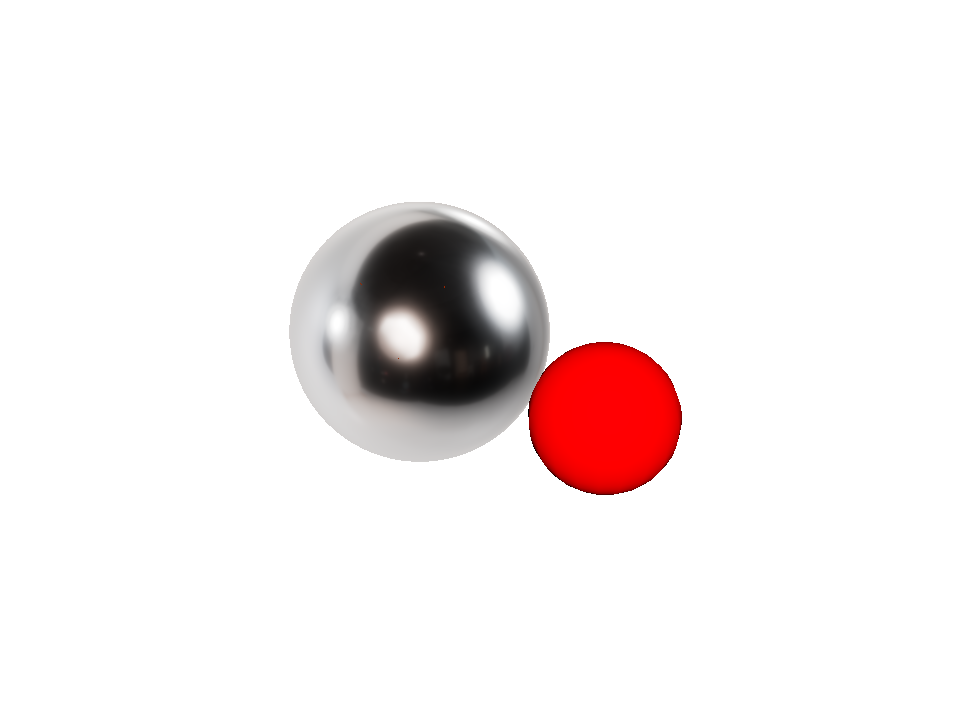
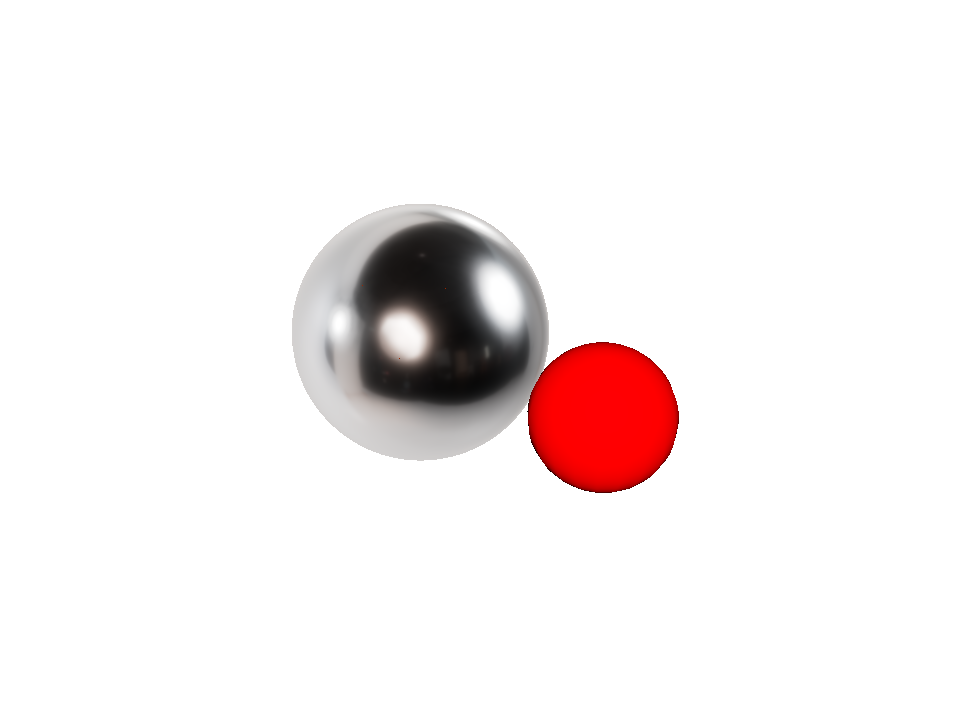
S2's Maya gate met: the IBL check on the restarted GUI worker, master's shell pixel-identical to the regenerated shell in one session; the new pictures are the baseline
Three jobs on the resident GUI Maya after the owner restarted the orchestrator: the IBL check with the
regenerated shell (RESULT: OK, pictures written), a second run of it (identical to the first), and
master's shell through the job's fx parameter in the same session (identical to the regenerated shell's
pictures, max 1 grey level on two debug views). The committed September pictures differed on 5 to 8
percent of pixels; that was the session, not the shell. Plan task 6 ticked with the evidence; the spec's
amendment; board, docs map, handoff, journal (with the BATS line).

diff --git a/Docs/superpowers/plans/s2-material-generators.md b/Docs/superpowers/plans/s2-material-generators.md
@@ -1,7 +1,8 @@
 # S2 plan: the generators
 
 **Status:** Accepted. Built 2026-10-01 on `feat/s2-material-generators` (one PR) after #34 approved the spec;
-six of seven tasks verified, task 6 (the GUI Maya run) stated as not met in the PR, see the table.
+all seven tasks verified; task 6 (the GUI Maya run) was met after the merge, once the owner restarted the
+orchestrator (the follow-up PR), see the table.
 
 Spec: [../specs/s2-material-generators.md](../specs/s2-material-generators.md). Test-first: each task's
 test lands with it.
@@ -29,7 +30,7 @@ test lands with it.
 - [x] 5. `tools/generate_material_ui.py` with `--check` and `--write`, the CI step after the shader
       build. Verify: `--check` clean; a hand edit inside the markers makes it exit 1 with a diff (shown
       in the PR); the CI run green.
-- [ ] 6. The Maya run: `tools/maya/ibl_check.py` with the regenerated shell on the `hogshade_maya_gui`
+- [x] 6. The Maya run: `tools/maya/ibl_check.py` with the regenerated shell on the `hogshade_maya_gui`
       worker (BATS if the orchestrator runs, else a human launch), pictures compared to the previous
       check. Verify: the compile log clean, the pictures identical, the attribute editor's groups as
       before; stated in the PR with the artifact path.
@@ -46,7 +47,7 @@ test lands with it.
 | 3 | The shell: environment section moved above, a hand-written "display and model" section (`shadingModel`, `linearSpaceLighting`, `gammaCorrectionValue`), the markers, the four macros gone (`test_shell_has_no_ui_macros_left`), `shadowMultiplier` an explicit declaration in its Shadows group; four attributes change UI group (the three parallax sliders the slider macro had put in Material Properties, and `shadowMultiplier`), settled as intentional in the spec's amendments; `generate()` equals the block byte for byte; every host-map identifier is declared and read by the body; the S1 union test now parses declarations and still passes; `tools/build_shaders.py --check --require-compilers` clean; `fxc /T fx_5_0` compiles the regenerated effect (909 965 bytes) and master's (909 849) with the same warnings |
 | 4 | `Docs/reference/material-types.md` equals `generate("docs")`; every parameter of every type listed; `check_docs.py` clean (68 files) |
 | 5 | `tools/generate_material_ui.py --check` clean; a hand edit inside the markers (0.5 to 0.55 on `materialRoughness`) exits 1 with the diff; the CI step after the shader build |
-| 6 | **Not met as specified.** The IBL check job on the resident `hogshade_maya_gui` worker crashed the worker during the shader load (job `1785f4a7`, 22:22:46; the check log stops after "log is incremental", the worker state CRASHED, no restart). The orchestrator's worker is not mine to restart and a Maya beside it is forbidden, so the evidence came from the headless `hogshade_maya` worker instead: one job loaded master's shell and the regenerated shell in the same session; both report the `Main` technique, the same 1021 user attributes and the same defaults and nice names on every attribute. A parse failure would have shown there. The viewport pictures still need a GUI run after the worker is restarted (owner) |
+| 6 | **Met on 2026-10-01 after the merge of #35**, once the owner restarted the orchestrator with a fresh GUI worker: the IBL check job completed (`RESULT: OK`, `Main` technique, shader load 28.6 s) and wrote the pictures under `verification/maya-2026/ibl-check/studio_small_09/` (committed in the follow-up PR as the new baseline). The pictures differ from the 2026-09-27 baseline on 5 to 8 percent of pixels (silhouettes and highlights, mean a quarter of a grey level), so a third job rendered **master's shell in the same session**: its pictures and the regenerated shell's are pixel-identical (max 0 on `main.png`, max 1 on two debug views), and two runs of one shell in one session are identical too. The difference from September is between Maya sessions, not between shells. Before the restart: The IBL check job on the resident `hogshade_maya_gui` worker crashed the worker during the shader load (job `1785f4a7`, 22:22:46; the check log stops after "log is incremental", the worker state CRASHED, no restart). The orchestrator's worker is not mine to restart and a Maya beside it is forbidden, so the evidence came from the headless `hogshade_maya` worker instead: one job loaded master's shell and the regenerated shell in the same session; both report the `Main` technique, the same 1021 user attributes and the same defaults and nice names on every attribute. A parse failure would have shown there. The viewport pictures still need a GUI run after the worker is restarted (owner) |
 | 7 | This table; the spec's amendments; board, docs map, glossary, handoff, journal; `check_docs.py` clean |
 
 Totals: `uv run pytest tests/material` 180 passed; the full suite 335 passed on the owner's GPU.

diff --git a/Docs/handoffs/CURRENT.md b/Docs/handoffs/CURRENT.md
@@ -1,7 +1,7 @@
 # Handoff: where HogShade is right now
 
 **Status:** Living. Rewritten whenever work is interrupted, a decision changes, or a PR lands.
-**Last updated:** 2026-10-01, late: S2 built (`feat/s2-material-generators`, [#35](https://github.com/HogJonny-AMZN/HogShade/pull/35) open) after #34 approved the spec; before that, `hog_color`'s history settled by the owner, the old toolbox identifiers retired and track A closed (`chore/history-put-to-bed`, #32, from the LargeWorlds session), on top of #31 merged (S1, the material schema files and `hogshade.material`). Before that: #27 to #30 (the standards remainder, the schema design, the glossary, the S1 spec); #26 and `v0.2.0`.
+**Last updated:** 2026-10-01, night: #35 (S2) merged, its Maya gate met after the owner restarted the orchestrator, the follow-up PR open; before that #34; before that, `hog_color`'s history settled by the owner, the old toolbox identifiers retired and track A closed (`chore/history-put-to-bed`, #32, from the LargeWorlds session), on top of #31 merged (S1, the material schema files and `hogshade.material`). Before that: #27 to #30 (the standards remainder, the schema design, the glossary, the S1 spec); #26 and `v0.2.0`.
 
 A new session reads this, then `Docs/plan/BOARD.md` (gates first), then
 `Docs/design/2026-09-26-decision-log-and-working-knowledge.md`, then the newest file in `Docs/journal/`, then `Docs/ROADMAP.md`, then the plan in flight
@@ -9,6 +9,15 @@ A new session reads this, then `Docs/plan/BOARD.md` (gates first), then
 how much to decide alone.
 
 ## In flight
+
+**Sit rep, 2026-10-01 night.** S2 is merged (#35) and its one open gate is closed: the owner restarted the
+orchestrator (the kill switch, then `tools/bats/run_hogshade_orchestrator.bat`), the IBL check completed on
+the fresh GUI worker, and a job that rendered master's shell in the same session produced pixel-identical
+pictures to the regenerated shell's. The new pictures are the committed baseline (the September one differs
+by session state, 5 to 8 percent of pixels on silhouettes and highlights, which two in-session runs of one
+shell do not show). The follow-up PR carries that baseline, Copilot's two post-merge findings on #35 (the
+label rule's `<`, a board row), and S2 struck. Next: S3, the wgpu binding (spec first), or the standards PR;
+the owner picks. Icebox: a job sets and clears its own environment on the resident worker.
 
 **Sit rep, 2026-10-01 late.** S2 is built and #35 is open: `hogshade.material.generate("maya_dx11")`
 writes the shell's material block between markers from the legacy types' schema files and the host map

diff --git a/Docs/plan/BOARD.md b/Docs/plan/BOARD.md
@@ -41,7 +41,7 @@ A gate is not a task. It is a question that blocks tasks, and the cost of guessi
 
 | Item | Cost | Notes |
 | --- | --- | --- |
-| ~~**S2 · the generators, the build**~~ | — | ✅ **Merged 2026-10-01 as [#35](https://github.com/HogJonny-AMZN/HogShade/pull/35).** The Maya block generated between markers from the schema and the host map, the macros retired, `--check` in CI, the docs reference; 180 tests. The GUI picture run is still owed: the resident GUI Maya worker crashed on the first job; owner restarting it (2026-10-01), then `submit.py --gui --module hogshade.jobs.maya_ibl_check`; Copilot's two post-merge findings fixed in the follow-up |
+| ~~**S2 · the generators, the build**~~ | — | ✅ **Merged 2026-10-01 as [#35](https://github.com/HogJonny-AMZN/HogShade/pull/35).** The Maya block generated between markers from the schema and the host map, the macros retired, `--check` in CI, the docs reference; 180 tests. The GUI picture run landed after the merge (the owner restarted the orchestrator): master's shell and the regenerated shell render pixel-identical in one session; the new pictures are the baseline, in the follow-up PR with Copilot's two post-merge findings |
 | ~~**S2 · the generators, spec and plan**~~ | — | ✅ **Merged 2026-10-01 as [#34](https://github.com/HogJonny-AMZN/HogShade/pull/34)** (Copilot's four findings fixed) |
 | ~~**S1, the second review's fixes**~~ | — | ✅ **Merged 2026-09-28 as [#33](https://github.com/HogJonny-AMZN/HogShade/pull/33).** `when` on several sources and the condition-set rules, `validate()` never raises, `convert()` refuses an invalid material; every review metric at 7 or above. The re-review of #31 had scored error handling 6 and found the cutout mapping ignored `has_alpha`; the third review ran before the PR opened and added the condition-set rules; 158 tests |
 | ~~**S1 · the material schema files and `hogshade.material`**~~ | — | ✅ **Merged 2026-09-28 as [#31](https://github.com/HogJonny-AMZN/HogShade/pull/31).** Four `*.material-type.json` (the standard with OpenPBR names, legacy v2 and v1 typed from the structs and the shell with a test tying them, lambert), three conversion tables under the coverage rule, `load`, `validate`, `resolve`, `convert`; 133 tests; the wheel carries the data; mayapy imports it. Amendments in the spec's last section. Merge when read |

diff --git a/Docs/README.md b/Docs/README.md
@@ -98,7 +98,7 @@ spec's acceptance gate passed and the roadmap, the README and any affected desig
 | 5. wgpu host | not yet | not yet | Design done |
 | 6. Other hosts | not yet | not yet | Design done |
 | S1. The material schema files and `hogshade.material` (load, validate, resolve, convert) | [superpowers/specs/s1-material-schema.md](superpowers/specs/s1-material-schema.md) | [superpowers/plans/s1-material-schema.md](superpowers/plans/s1-material-schema.md) | Built 2026-09-27 (`feat/s1-material-schema`, [#31](https://github.com/HogJonny-AMZN/HogShade/pull/31) open): four types, three tables, `hogshade.material` with 133 tests; mayapy 3.11.9 lists the four types |
-| S2. The generators: the Maya shell's material UI and the docs reference from the schema | [superpowers/specs/s2-material-generators.md](superpowers/specs/s2-material-generators.md) | [superpowers/plans/s2-material-generators.md](superpowers/plans/s2-material-generators.md) | Built 2026-10-01 (`feat/s2-material-generators`, [#35](https://github.com/HogJonny-AMZN/HogShade/pull/35) open): the Maya block and the docs reference generated and checked in CI; the GUI Maya picture run still owed |
+| S2. The generators: the Maya shell's material UI and the docs reference from the schema | [superpowers/specs/s2-material-generators.md](superpowers/specs/s2-material-generators.md) | [superpowers/plans/s2-material-generators.md](superpowers/plans/s2-material-generators.md) | Built 2026-10-01 (`feat/s2-material-generators`, [#35](https://github.com/HogJonny-AMZN/HogShade/pull/35) open): the Maya block and the docs reference generated and checked in CI; the GUI Maya picture run met after the merge (pixel-identical to master's shell in one session) |
 | E1. IBL cook | [superpowers/specs/e1-ibl-cook.md](superpowers/specs/e1-ibl-cook.md) | [superpowers/plans/e1-ibl-cook.md](superpowers/plans/e1-ibl-cook.md) | Done: cook, tests, job, Maya diffuse-term check, LFS payloads in the repo (2026-09-26) |
 | E2. Cook performance and resolution | [superpowers/specs/e2-cook-performance.md](superpowers/specs/e2-cook-performance.md) | [superpowers/plans/e2-cook-performance.md](superpowers/plans/e2-cook-performance.md) | Done except the roadmap tick: numba 140x, measured to an 8192 cube |
 | E. Parity and pipeline, rest | not yet | not yet | Design done |

diff --git a/Docs/journal/2026-10-01-session-01.md b/Docs/journal/2026-10-01-session-01.md
@@ -74,3 +74,21 @@ that were weaker than they read (a dead anchor, a stale allowance). Belief: an e
 file needs an instrument that reads the same fields the consumer reads; fxc and the headless load read
 some, the review read the rest.
 -> `Docs/superpowers/specs/s2-material-generators.md` amendments; `hogshade/material/generators.py`
+
+### Owner restarted BATS; the gate met, and a pixel diff that was the session, not the shell
+
+Owner: "it's up and ready". The IBL check completed on the fresh GUI worker, pictures written. A pixel
+comparison against the committed September pictures showed 5 to 8 percent of pixels differing, max 209,
+all on the spheres (silhouettes, highlights), mean a quarter of a grey level. Two runs of the regenerated
+shell in the same session: identical. Then the decisive job: master's shell (the pre-S2 file, with its
+generated include beside it) rendered in the same session through the job's `fx` parameter, and compared
+with the regenerated shell's pictures: max 0 on `main.png`, max 1 on two debug views. The shells are
+equivalent; the September baseline was a different Maya session (driver, AA state, whatever it was). The
+new pictures are the baseline from now on. Belief: a picture diff across sessions measures the session as
+much as the shader; the honest instrument is an A/B inside one session, which the resident worker makes a
+one-parameter job.
+-> BATS: three jobs in a row on one resident GUI Maya (28 s shader loads, no boots) gave the in-session A/B
+  that settled a 5-percent pixel diff in minutes; the job's `fx` parameter was the whole mechanism. The
+  failed first attempt (the crashed worker, then a failed restart that took every worker down) is on the
+  record too: the restart is the owner's, and the launcher and kill switch are in `tools/bats/`.
+-> `verification/maya-2026/ibl-check/studio_small_09/`; the plan's task 6; the spec's amendments; the handoff

diff --git a/Docs/superpowers/specs/s2-material-generators.md b/Docs/superpowers/specs/s2-material-generators.md
@@ -192,7 +192,10 @@ naming the shell.
   bounds, `UIOrder`), not the shell's hand-written variety; Maya reads annotations by name.
 - **`union_of()` and `EMISSION_FIELDS`** are the agreement check Copilot asked for on #34: shared parameters
   agree on `type`, `default`, `range`, `choices`, `colour_space`; `doc` and `strength` may differ.
-- **The human gate** ran on the headless worker, not the GUI one: the GUI worker crashed during the shader
+- **The human gate, met after the merge.** The owner restarted the orchestrator; the IBL check completed on the
+  fresh GUI worker and master's shell rendered in the same session is pixel-identical to the regenerated
+  shell's pictures (the committed September baseline differs by session state, not by shell). Before that:
+  the gate ran on the headless worker, not the GUI one: the GUI worker crashed during the shader
   load of the first job and the orchestrator did not restart it (the plan's task 6 says what was proven
   instead and what remains). The crash is unexplained; the same shell loads in the headless Maya with the
   same technique, attribute set and defaults as master's.
